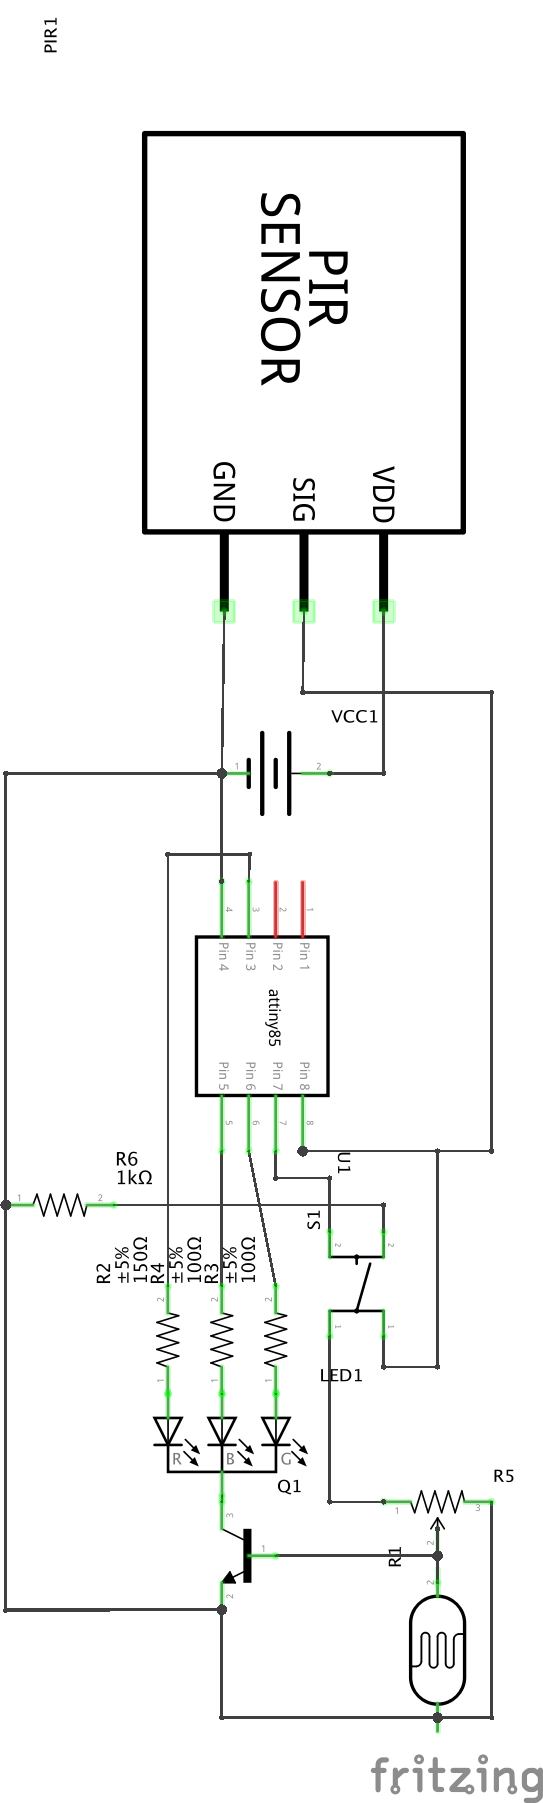
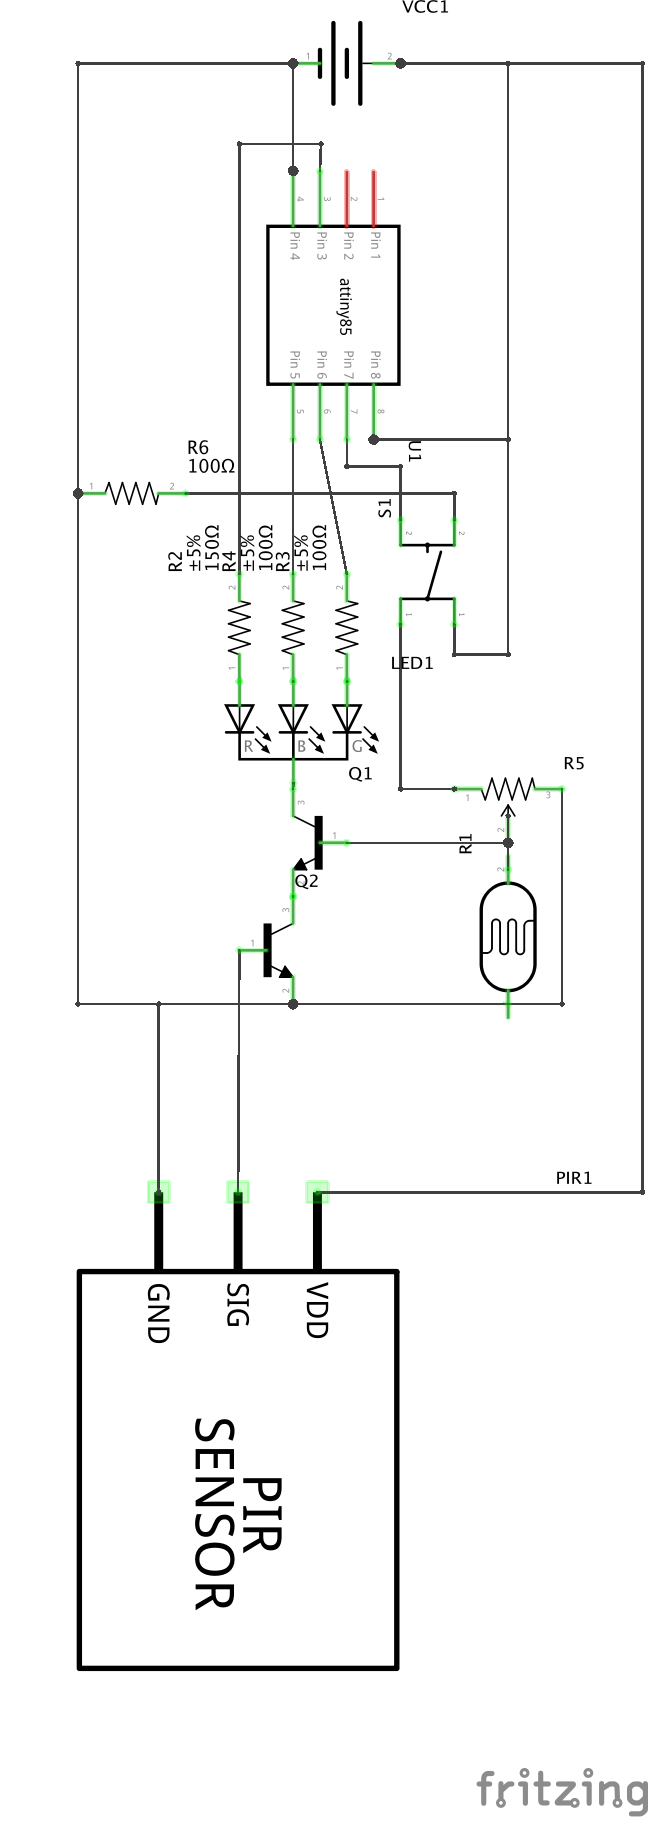
PIR wired up

diff --git a/README.md b/README.md
@@ -12,7 +12,8 @@ A night light that lights up your toilette when you enter your restroom. Inspire
 - 1 Push button
 - 1 Timpot (10k)
 - 2 100R Resistor
-- 1 150R Resistor
+- 2 150R Resistor
+- 2 N-Type Mosfet (2N7000)
 
 ![Schematics](https://github.com/fjcaetano/ToiLite/raw/master/toilite_schem.png)
 
@@ -20,7 +21,7 @@ The schematics and prototyping are using an ATTiny85 as microcontroller for the 
 
 
 ### TODO
-- [ ] Hook up the PIR
+- [x] Hook up the PIR
 - [ ] Wire it up in a perfboard
 - [ ] Make a housing for the product
 - [ ] Install on a toilette
